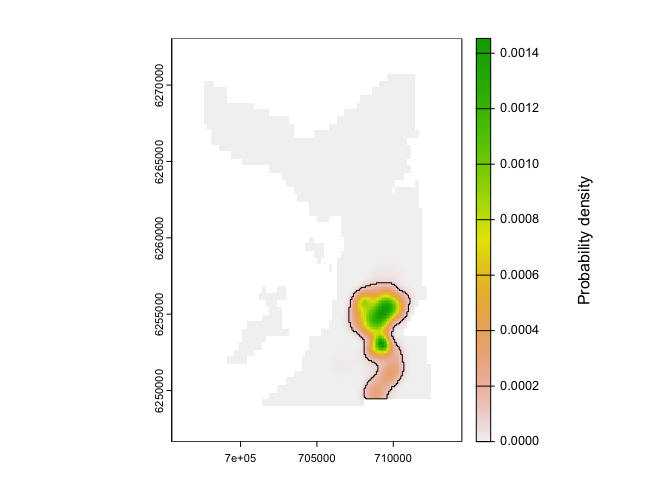
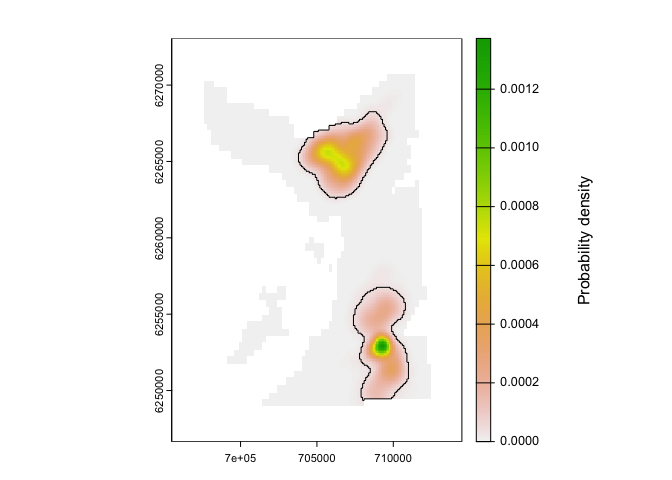
Use smoother in README

diff --git a/README.md b/README.md
@@ -410,7 +410,7 @@ arc <-
   filter(individual_id == 25L) |>
   mutate(individual_id = NULL,
          depth_sigma = 50,
-         depth_deep_eps = 20) |>
+         depth_deep_eps = 30) |>
   rename(obs = depth) |>
   as.data.table()
 ```
@@ -460,12 +460,12 @@ fwd <- do.call(pf_filter, args)
 head(fwd$states)
 #>    path_id timestep           timestamp map_value        x       y
 #>      <int>    <int>              <POSc>     <num>    <num>   <num>
-#> 1:       1        1 2016-03-17 01:50:00 103.00890 709242.1 6253707
-#> 2:       1        2 2016-03-17 01:52:00  56.53801 709340.8 6253211
-#> 3:       1        3 2016-03-17 01:54:00  74.88351 709024.9 6253068
-#> 4:       1        4 2016-03-17 01:56:00 122.90161 709148.0 6253776
-#> 5:       1        5 2016-03-17 01:58:00  83.21526 709074.1 6253234
-#> 6:       1        6 2016-03-17 02:00:00  56.53801 709295.1 6253216
+#> 1:       1        1 2016-03-17 01:50:00  50.11201 709742.1 6253607
+#> 2:       1        2 2016-03-17 01:52:00  45.88295 709342.3 6252908
+#> 3:       1        3 2016-03-17 01:54:00  68.53316 709267.0 6253268
+#> 4:       1        4 2016-03-17 01:56:00  59.76520 709105.9 6253005
+#> 5:       1        5 2016-03-17 01:58:00  91.54701 709022.1 6253332
+#> 6:       1        6 2016-03-17 02:00:00  58.17422 709266.2 6253130
 
 # Backward run
 args$.direction <- "backward"
@@ -478,7 +478,7 @@ the individual at each time step (accounting for all of the data before
 and after each step).
 
 ``` r
-# smo <- pf_smoother_two_filter(.map = map, .nMC = 1)
+smo <- pf_smoother_two_filter(.n_particle = 100L, .n_sim = 100L)
 ```
 
 Particles can be used to reconstruct movement paths and patterns of
@@ -488,7 +488,7 @@ samples as follows:
 ``` r
 # Estimate UD
 ud <- map_dens(.map = map,
-               .coord = fwd$states,
+               .coord = smo$states,
                sigma = spatstat.explore::bw.diggle)
 #> Observation window is gridded.
 
@@ -536,10 +536,10 @@ To cite `patter` in publications, please use:
 - Lavender, E. et al. (2023). An integrative modelling framework for
   passive acoustic telemetry. Methods in Ecology and Evolution.
   <https://doi.org/10.1111/2041-210X.14193>
-- Lavender, E. et al. (in prep). Particle filters for passive acoustic
-  telemetry.
-- Lavender, E. et al. (in prep). `patter` for passive acoustic
-  telemetry.
+- Lavender, E. et al. (in prep). Particle filters for animal movement
+  modelling in autonomous receiver networks.
+- Lavender, E. et al. (in prep). Particle filters for animal tracking in
+  `R` and `Julia`.
 - Lavender, E. et al. (in prep). Particle filtering reveals patterns of
   space use in a Critically Endangered elasmobranch.
 
